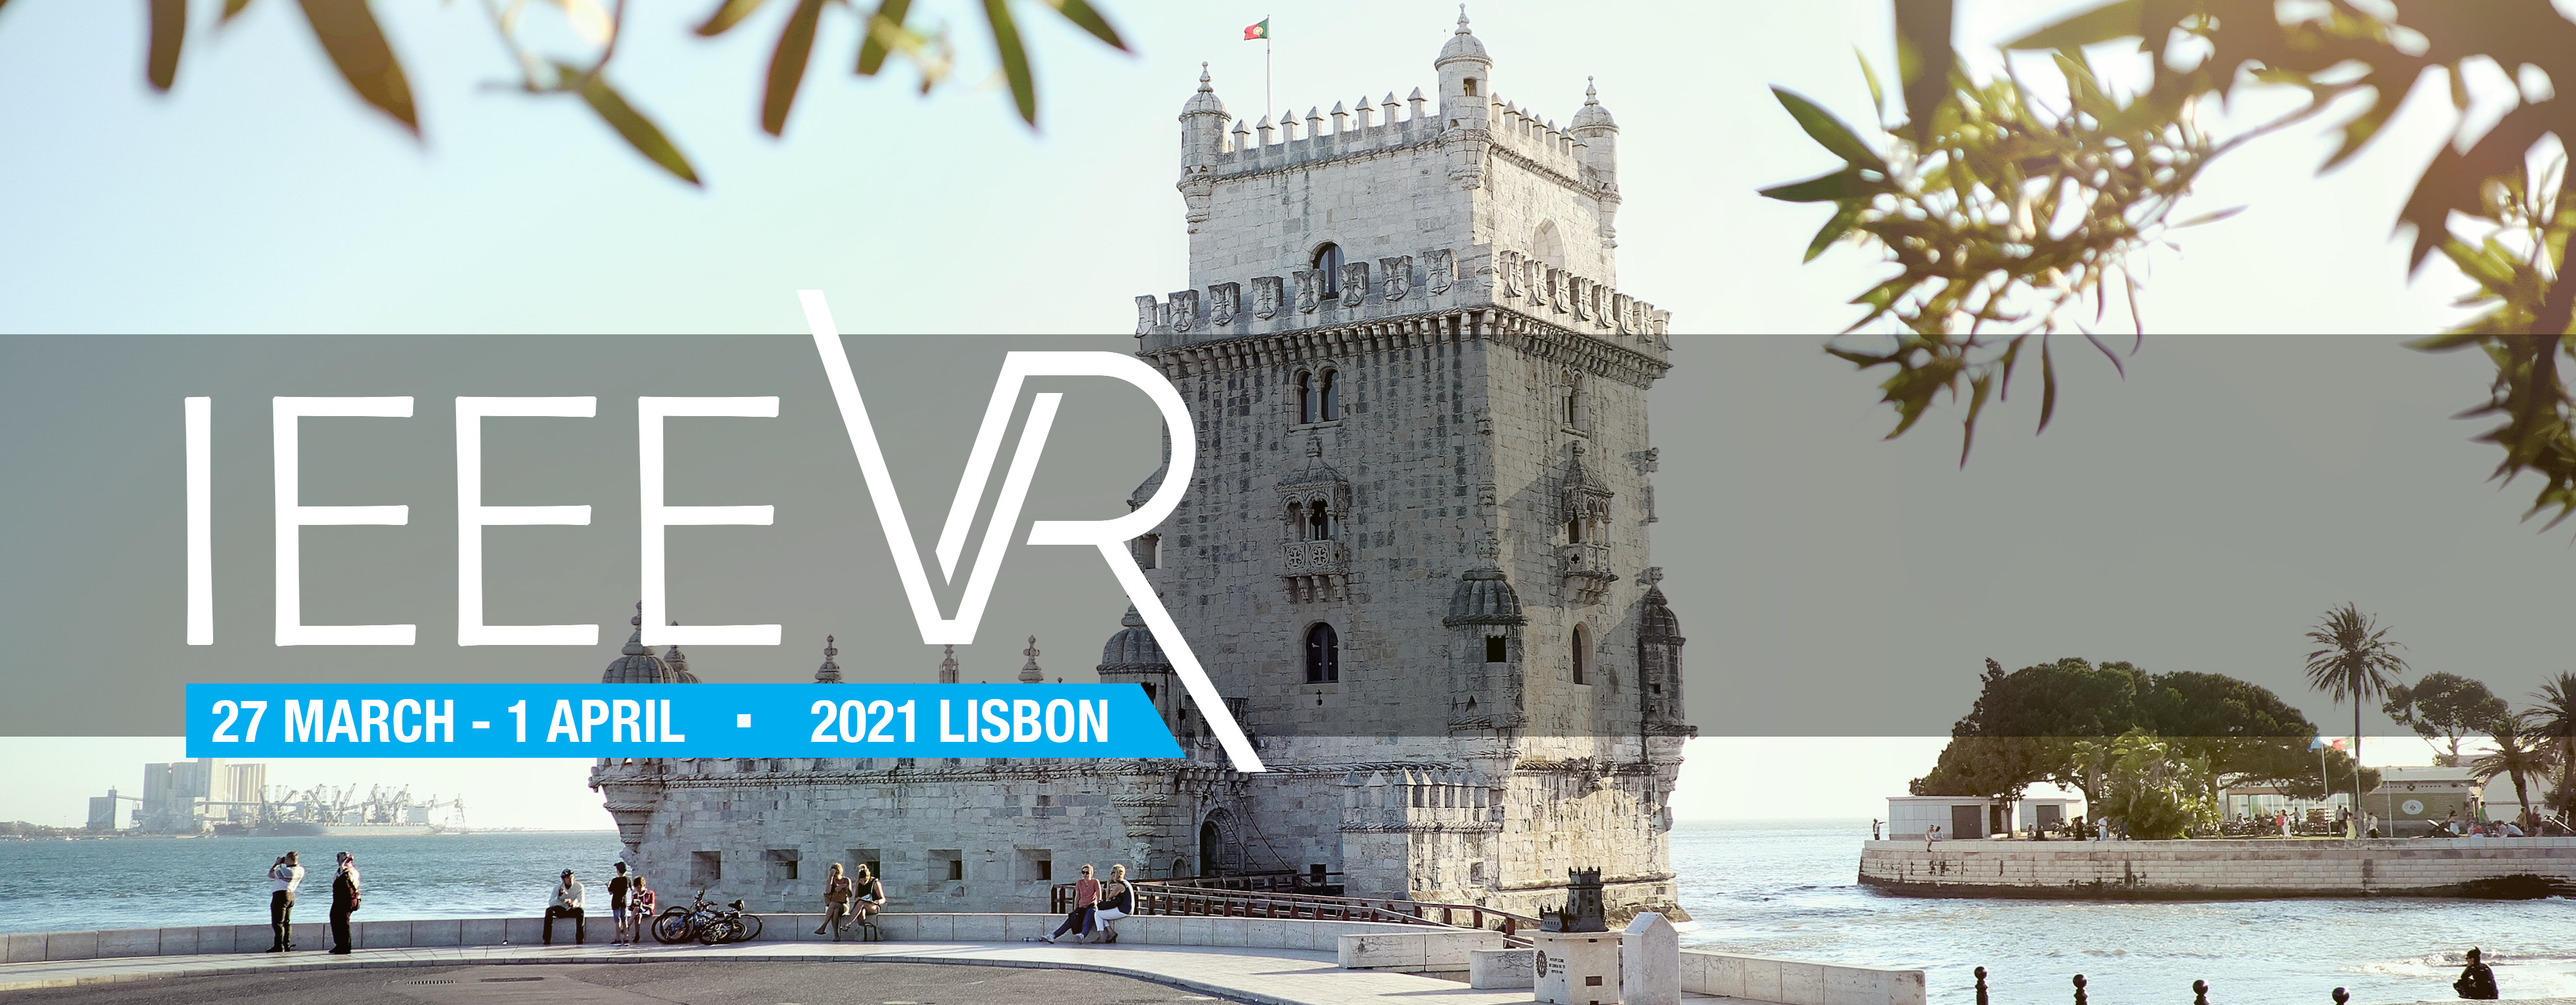
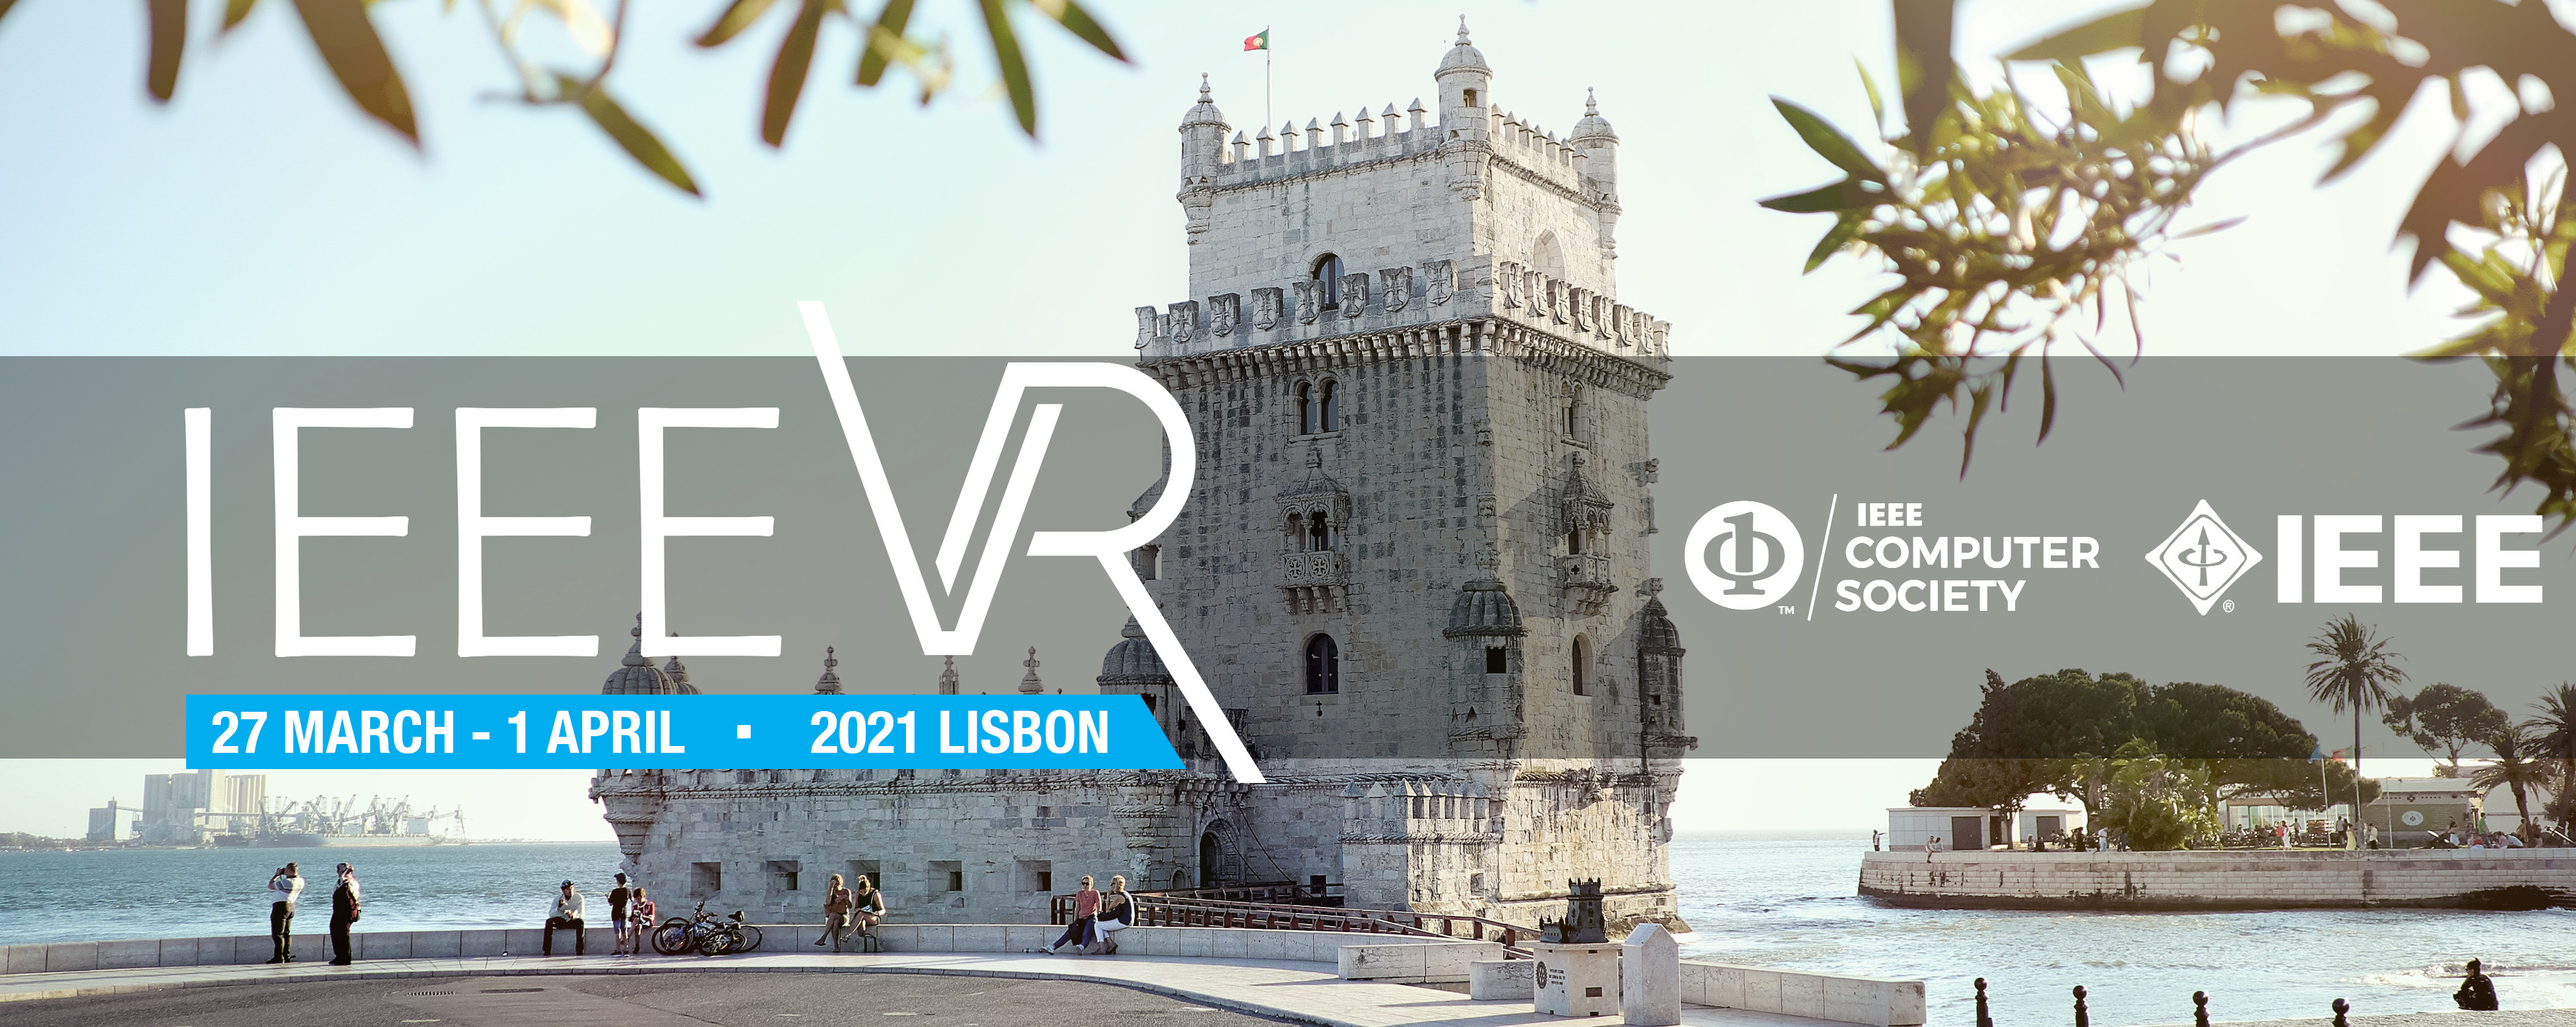
header image updated

diff --git a/_site/404.html b/_site/404.html
@@ -1,0 +1,10 @@
+<p>Sorry, but the page you were trying to view does not exist — perhaps you can try searching for it below.</p>
+
+<script type="text/javascript">
+  var GOOG_FIXURL_LANG = 'en';
+  var GOOG_FIXURL_SITE = 'http://localhost:4000'
+</script>
+
+<script type="text/javascript" src="//linkhelp.clients.google.com/tbproxy/lh/wm/fixurl.js">
+</script>
+

diff --git a/index.html b/index.html
@@ -5,6 +5,9 @@ header:
   image: /assets/images/ieeevr-banner-small.jpg
   #overlay_image: /assets/images/ieeevr-banner-small.png
 excerpt: ""
+#sidebar:
+#  title: "Side bar"
+#  nav: sidebar-sample
 ---
 
 <div>

diff --git a/404.md b/404.md
@@ -1,0 +1,16 @@
+---
+title: "Page Not Found"
+excerpt: "Page not found. Your pixels are in another canvas."
+sitemap: false
+permalink: /404.html
+---
+
+Sorry, but the page you were trying to view does not exist --- perhaps you can try searching for it below.
+
+<script type="text/javascript">
+  var GOOG_FIXURL_LANG = 'en';
+  var GOOG_FIXURL_SITE = '{{ site.url }}'
+</script>
+<script type="text/javascript"
+  src="//linkhelp.clients.google.com/tbproxy/lh/wm/fixurl.js">
+</script>

diff --git a/about/index.md b/about/index.md
@@ -4,7 +4,7 @@ author_profile: false
 header:
   image: /assets/images/ieeevr-banner-small.jpg
 excerpt: ""
-  
+
 ---
 
 <div>
